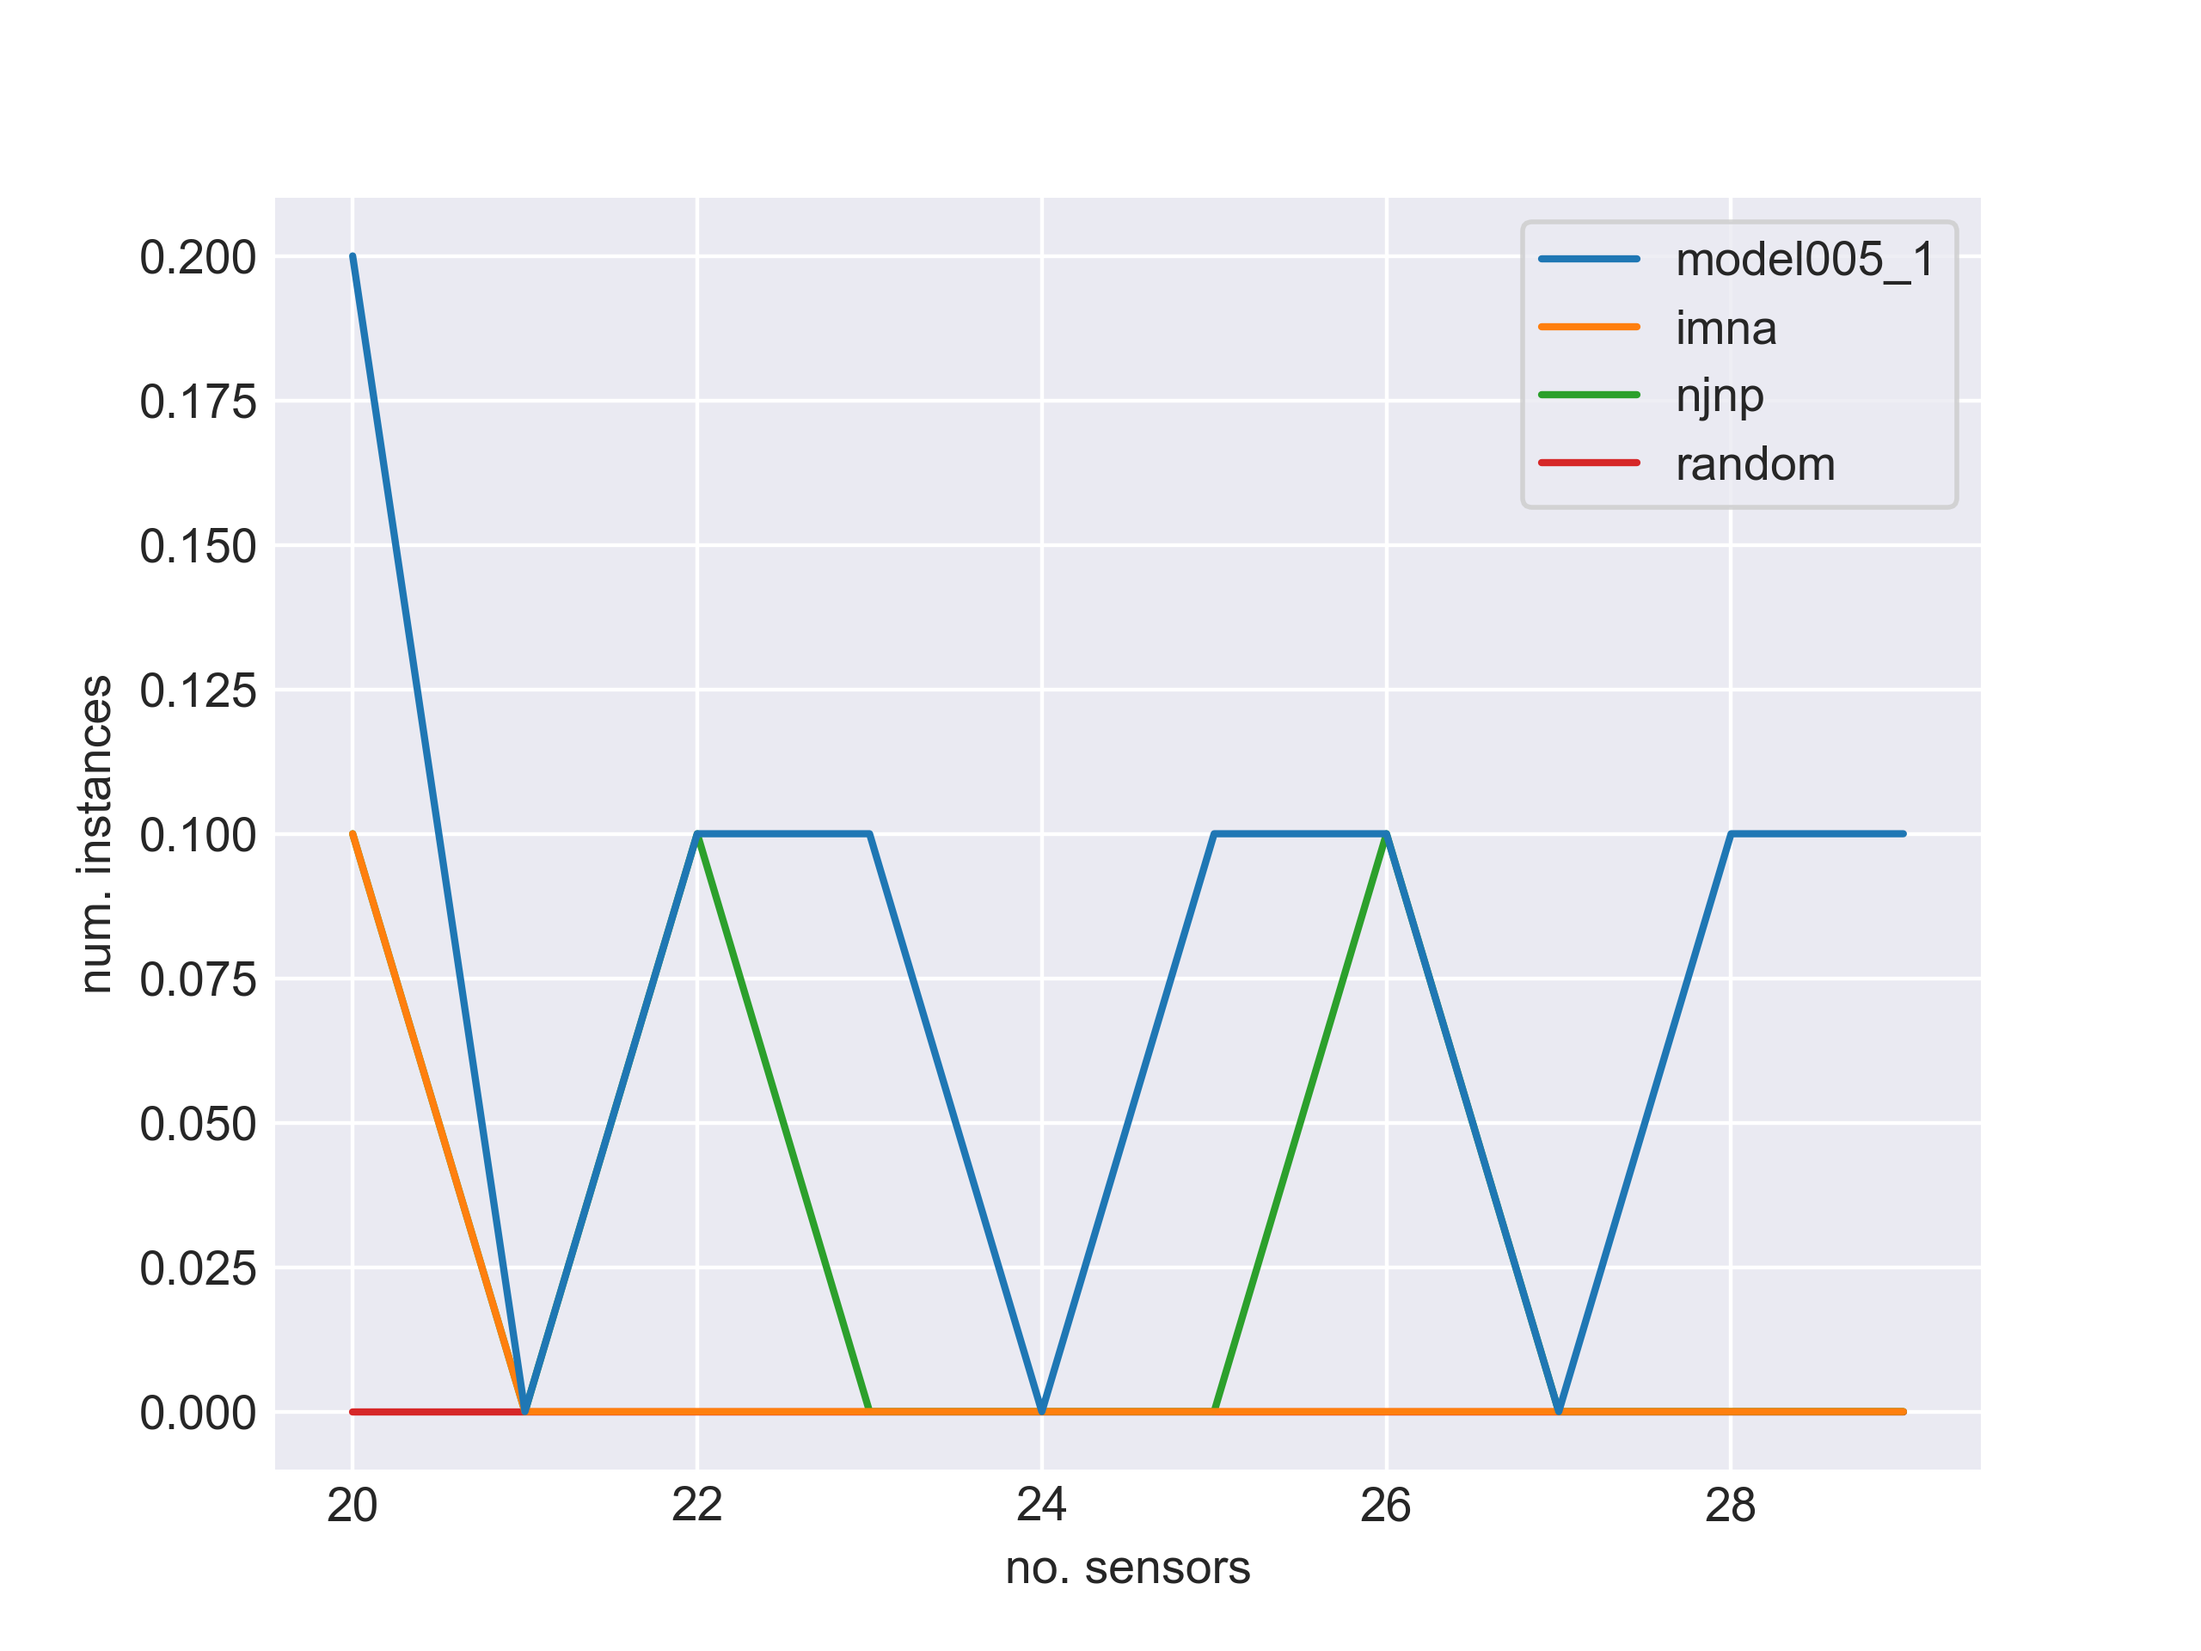
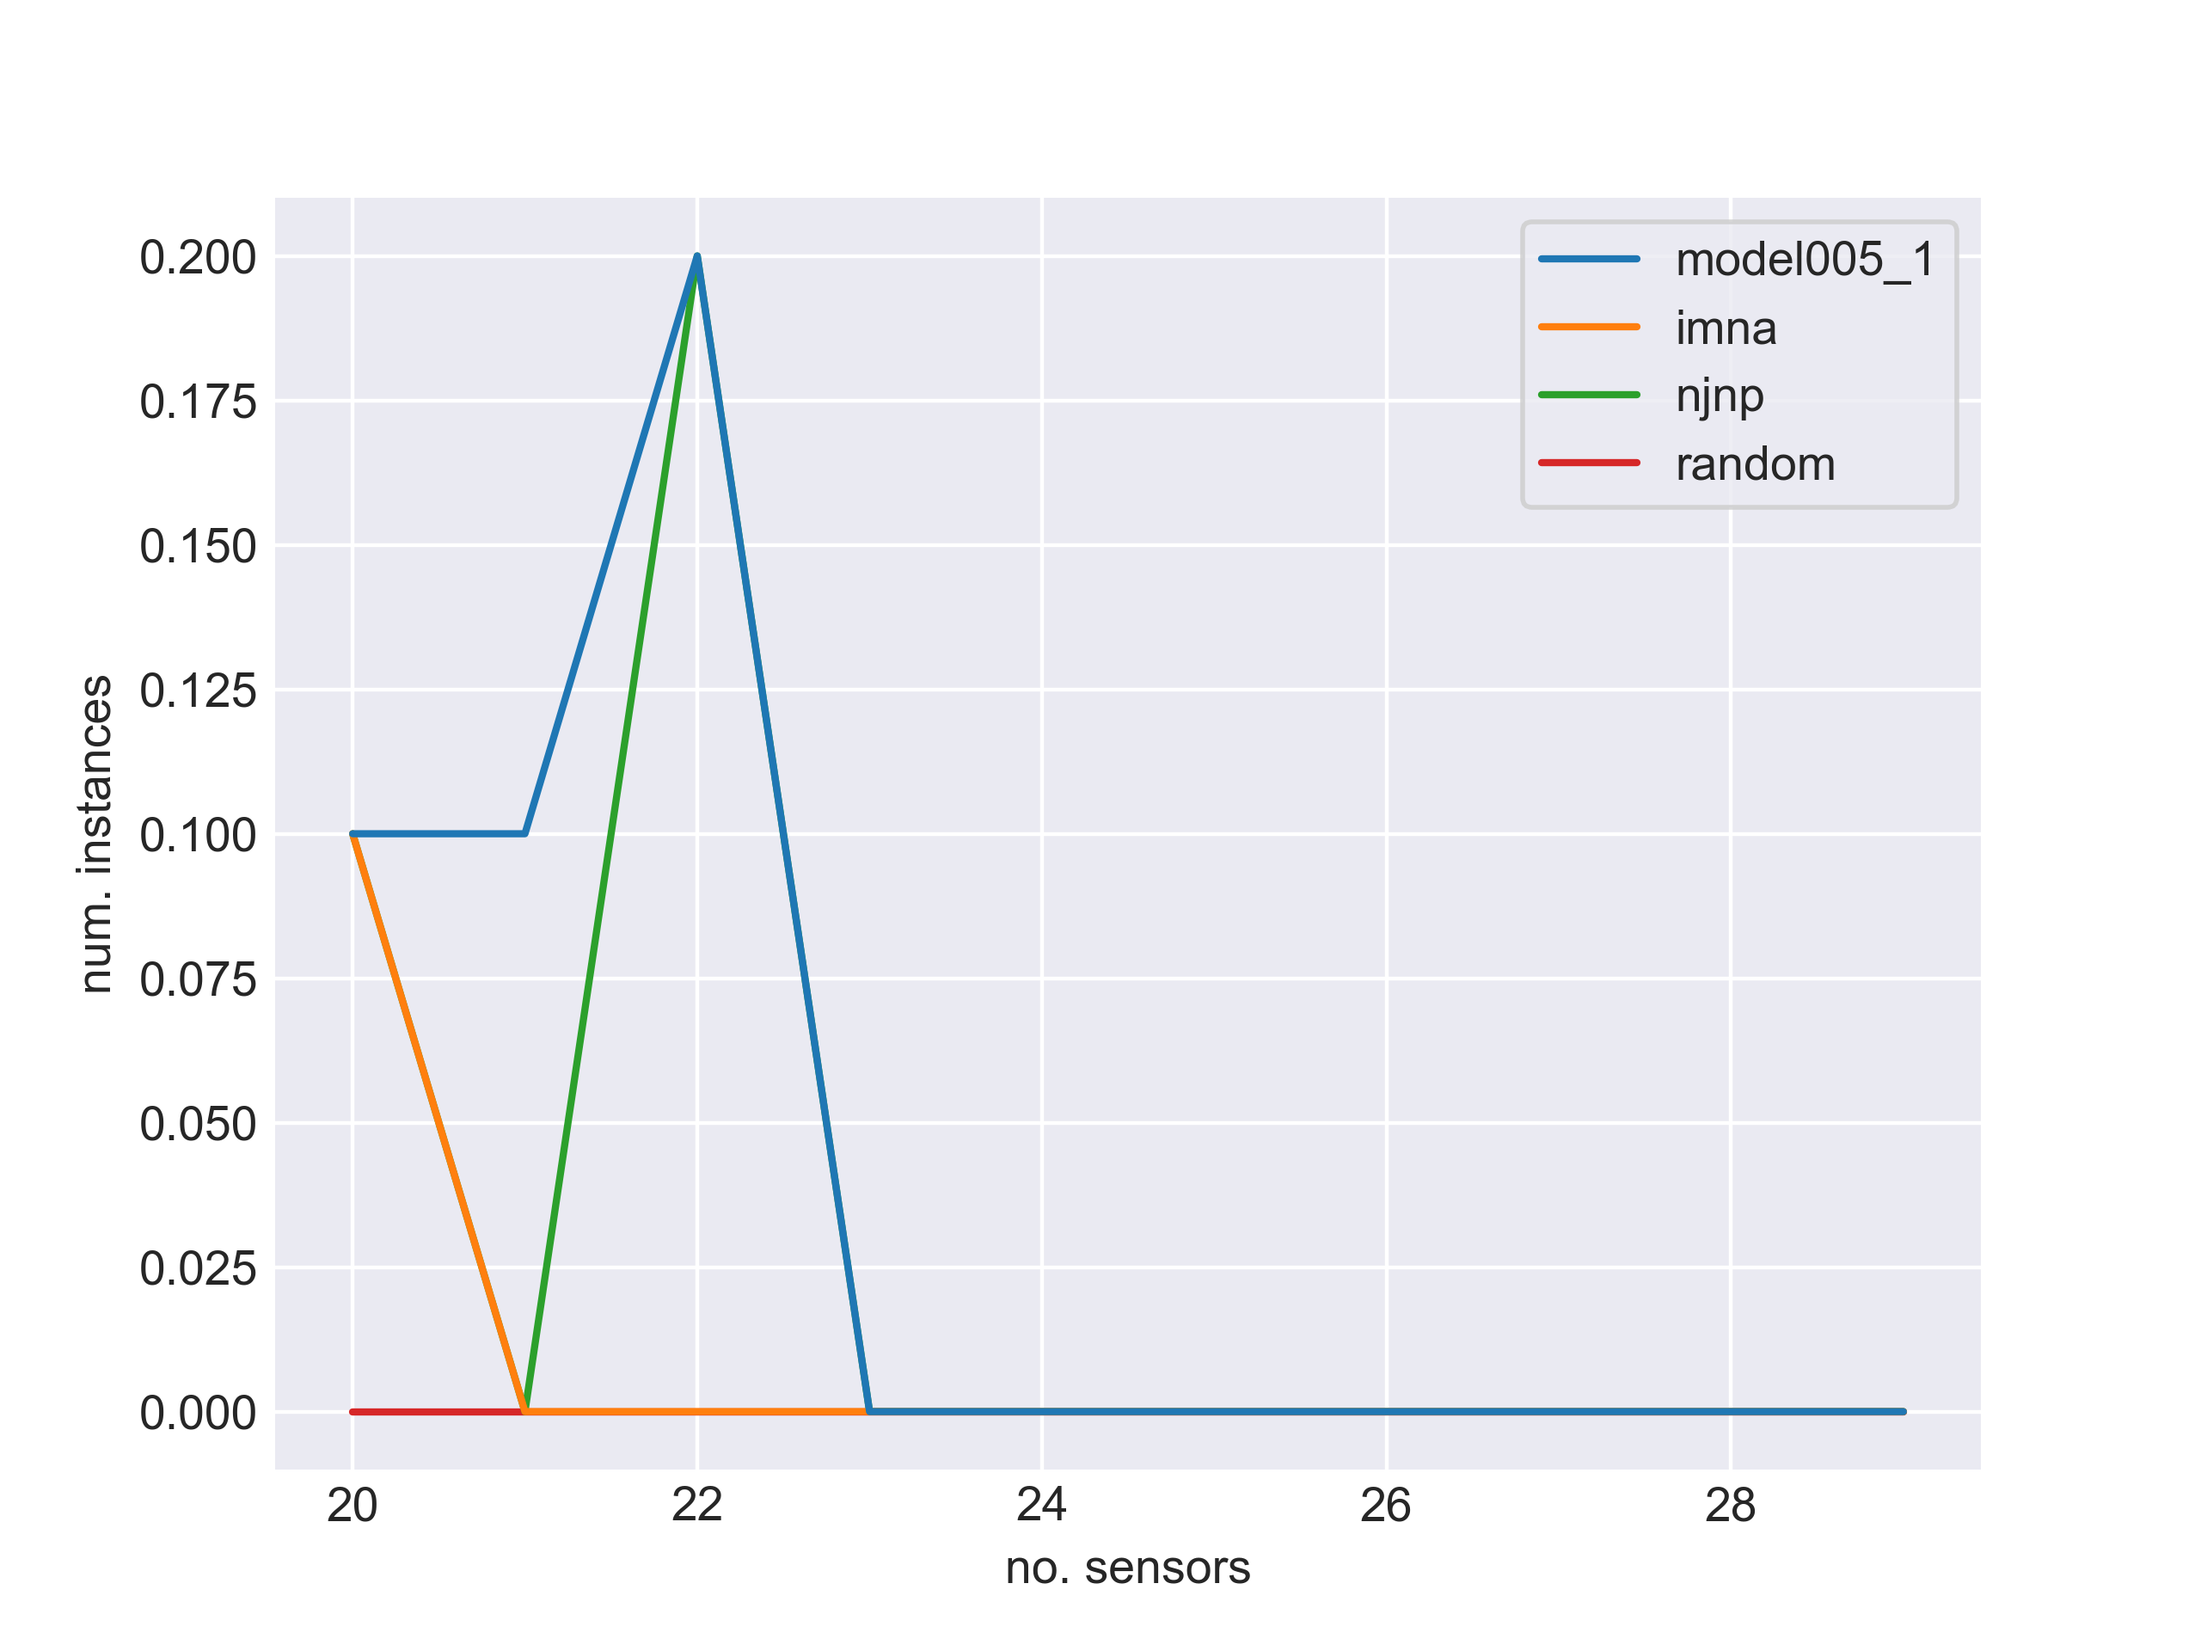
remove smooth when plotting

diff --git a/run_ept_12.py b/run_ept_12.py
@@ -247,9 +247,9 @@ def run_ept_1_2(ept, seed=123, save_dir='results', rerun=[], wp_default=WrsnPara
         xlabel = 'no. targets'
         
     plot_mean_std(x, lifetimes, xlabel, 'network lifetime', 'lifetime', 
-                  save_dir, yscale=None, smooth_k=4)
+                  save_dir, yscale=None)
     plot_mean_std(x, lifetimes, xlabel, 'network lifetime', 'lifetime_log', 
-                  save_dir, yscale='log', smooth_k=4)
+                  save_dir, yscale='log')
     plot_mean_std(x, node_failures, xlabel, 'node failures', 'node_failures', save_dir)
     plot_mean_std(x, aggregated_ecr, xlabel, 'agg. energy consumption rate', 'agg_ecr', save_dir)
     plot_inf_data(x, inf_data, xlabel, 'num. instances', 'inf_data', save_dir)
@@ -279,6 +279,8 @@ if __name__ == '__main__':
 
     torch.manual_seed(args.seed-1)
     np.random.seed(args.seed-2)
+    torch.set_printoptions(sci_mode=False)
+    np.set_printoptions(suppress=True)
 
     if args.rerun is None:
         rerun = []

diff --git a/model002.py b/model002.py
@@ -1,5 +1,5 @@
 import sys
-sys.path.insert(0, './model004')
+sys.path.insert(0, './model005')
 
 from utils import device, pdump, pload
 from utils import WRSNDataset
